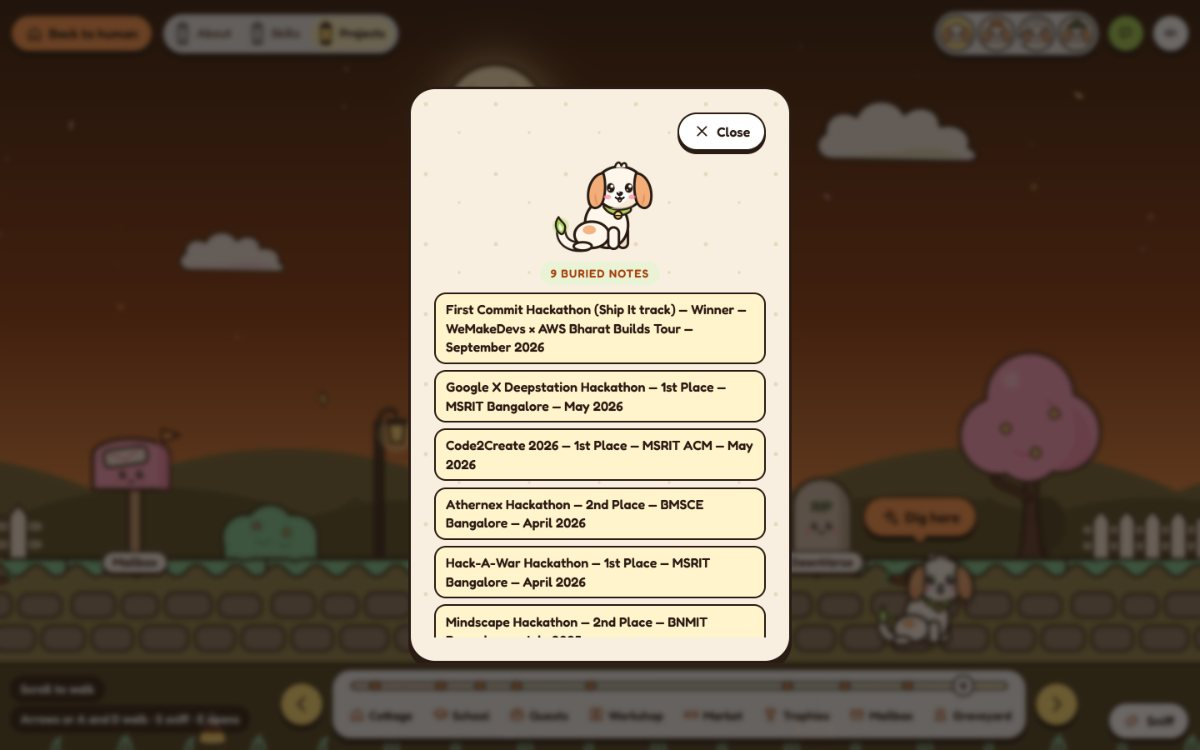
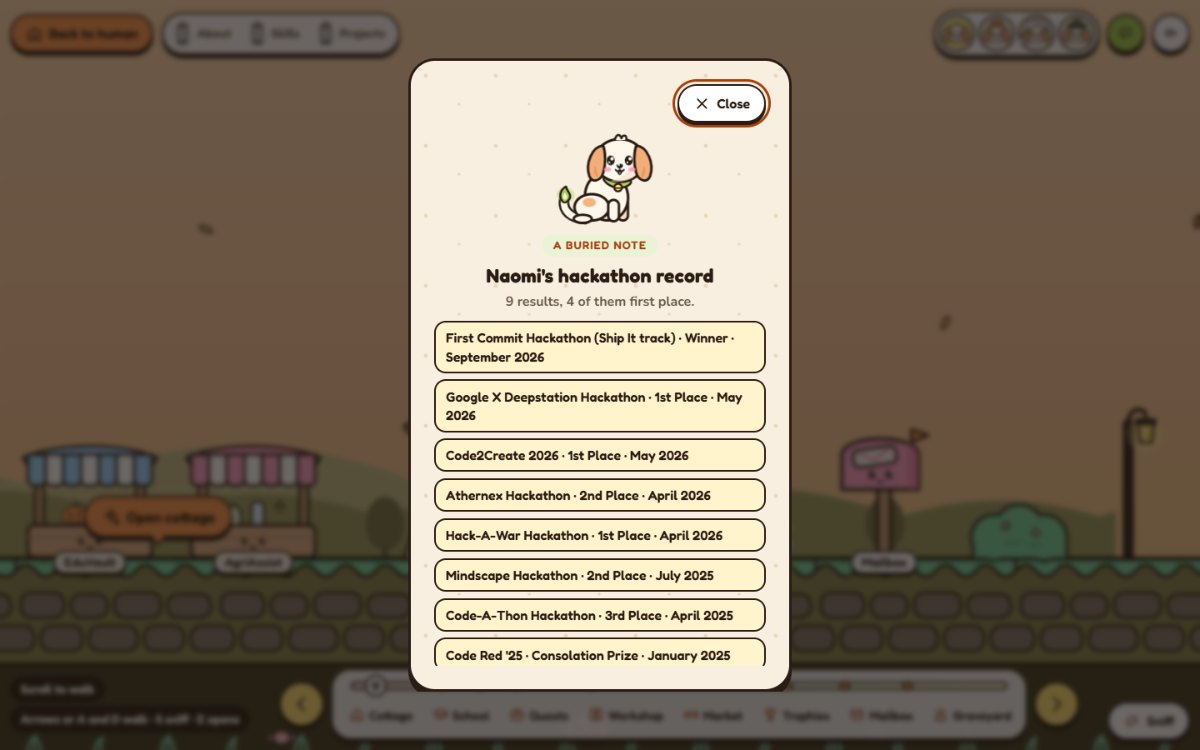
Turn the village dig spots into four notes from the portfolio.
Each spot opens a short note, school, the current internship, the hackathon record, or what Naomi builds, instead of a single buried fact.

diff --git a/src/human/HumanPage.tsx b/src/human/HumanPage.tsx
@@ -44,7 +44,7 @@ import { ROLES, type RoleId } from '../agent/match.ts';
  * hydrated: src/main.ts adds the interactions. Dog mode moves these
  * sections into a dialog in the real DOM, so keep the ids and classes
  * that src/dog reads (#education, #experience, #skills, #projects, #achievements, #contact,
- * #graveyard, .project-card[data-short], .grave-card, [data-bone]).
+ * #graveyard, .project-card[data-short], .grave-card).
  */
 
 const TINTS = ['pink', 'peach', 'lilac', 'sky', 'mint', 'butter'] as const;
@@ -349,7 +349,7 @@ export function HumanPage(): ReactNode {
               <p className="about-bio">
                 {beforeLove}
                 {love ? (
-                  <span id="fact-bio" data-bone={bioLove}>
+                  <span id="fact-bio">
                     {bioLove}
                   </span>
                 ) : null}
@@ -360,14 +360,14 @@ export function HumanPage(): ReactNode {
               </button>
             </article>
             <ul className="facts" aria-label="Quick facts">
-              <li className="fact tint-pink" id="fact-bengaluru" data-bone={location}>
+              <li className="fact tint-pink" id="fact-bengaluru">
                 <Icon name="pin" />
                 <span>
                   <span className="fact-label">Based in</span>
                   <span className="fact-value">{location}</span>
                 </span>
               </li>
-              <li className="fact tint-lilac" id="fact-focus" data-bone={`Focus: ${focus}`}>
+              <li className="fact tint-lilac" id="fact-focus">
                 <Icon name="spark" />
                 <span>
                   <span className="fact-label">Focus</span>
@@ -438,7 +438,7 @@ export function HumanPage(): ReactNode {
                   <Icon name="spark" />
                   {education.dates}
                 </li>
-                <li id="fact-cgpa" className="edu-cgpa" data-bone={education.score}>
+                <li id="fact-cgpa" className="edu-cgpa">
                   {education.score}
                 </li>
               </ul>
@@ -588,7 +588,7 @@ export function HumanPage(): ReactNode {
           />
           <ol className="award-grid">
             {awards.map((award, index) => (
-              <li id={`ach-${index}`} className={`award rank-${award.rank}`} data-bone={award.text} key={award.text}>
+              <li id={`ach-${index}`} className={`award rank-${award.rank}`} key={award.text}>
                 <Medal rank={award.rank} />
                 <p className="award-place">{award.place}</p>
                 <h3 className="award-event">{award.event}</h3>

diff --git a/src/dog/scene.ts b/src/dog/scene.ts
@@ -1,6 +1,8 @@
 import { cloud, moon, pumpkin, wrappedCandy, candyCorn } from '../art/critters.ts';
 import { academy } from '../art/decor.ts';
 import { sparkle } from '../art/kit.ts';
+import { portfolio } from '../content/portfolio.ts';
+import { buriedNotes, type BuriedNote } from './notes.ts';
 import {
   bush,
   cottage,
@@ -30,6 +32,8 @@ export type Target = {
   x: number;
   width: number;
   element: HTMLElement;
+  /** Dig spots only: what the pup digs up. */
+  note?: BuriedNote;
 };
 
 /** A stop on the village map. */
@@ -192,14 +196,8 @@ export function buildWorld(stage: HTMLElement): {
   const trails = el('div', 'trails');
   trails.hidden = true;
   village.append(trails);
-  // One dig spot per buried fact, except the hackathon awards: they share a
-  // single spot that digs up the whole list at once.
-  const awardList = document.querySelector<HTMLElement>('.award-grid');
-  const spots: HTMLElement[] = [];
-  for (const bone of document.querySelectorAll<HTMLElement>('[data-bone]')) {
-    const spot = awardList?.contains(bone) ? awardList : bone;
-    if (!spots.includes(spot)) spots.push(spot);
-  }
+  // A few dig spots, each holding a proper note (see notes.ts).
+  const spots = buriedNotes(portfolio);
   const SPOT_W = 96;
   // Spots sit in the grass strip, so keep them out from under building labels.
   const clearOfLabels = (start: number): number => {
@@ -211,7 +209,7 @@ export function buildWorld(stage: HTMLElement): {
     }
     return Math.min(x, WORLD_WIDTH - SPOT_W - 20);
   };
-  spots.forEach((spot, index) => {
+  spots.forEach((note, index) => {
     const x = clearOfLabels(Math.round(640 + index * ((4700 - 640) / Math.max(1, spots.length - 1))));
     const button = el('button', 'mound');
     button.type = 'button';
@@ -220,9 +218,9 @@ export function buildWorld(stage: HTMLElement): {
     button.innerHTML = `<span class="place-art" aria-hidden="true">${mound()}</span><span class="mound-label">Dig</span>`;
     button.setAttribute('aria-label', 'Dig this spot');
     village.append(button);
-    mounds.push({ kind: 'dig', id: spot.id || 'dig-awards', label: 'Dig here', x, width: SPOT_W, element: spot });
+    mounds.push({ kind: 'dig', id: note.id, label: 'Dig here', x, width: SPOT_W, element: button, note });
     button.addEventListener('click', () => {
-      button.dispatchEvent(new CustomEvent('dig', { bubbles: true, detail: spot }));
+      button.dispatchEvent(new CustomEvent('dig', { bubbles: true, detail: note }));
     });
   });
 

diff --git a/src/dog/index.ts b/src/dog/index.ts
@@ -6,6 +6,7 @@ import { pupArt, pupHead } from '../art/pup.ts';
 import { porch } from '../art/village.ts';
 import { VillageAudio } from './audio.ts';
 import { createDog, type Costume, type Pose } from './dog.ts';
+import type { BuriedNote } from './notes.ts';
 import { WORLD_WIDTH, buildWorld, updateTrails, type Place, type Target } from './scene.ts';
 
 const OPENING_KEY = 'naomi-spirit-opening-seen';
@@ -215,26 +216,22 @@ function openNode(node: HTMLElement): void {
   }
 }
 
-/** Shows what was buried: one note, or (for the awards spot) the whole list. */
-function dig(spot: HTMLElement): void {
-  const notes = spot.dataset.bone
-    ? [spot.dataset.bone]
-    : [...spot.querySelectorAll<HTMLElement>('[data-bone]')].map((node) => node.dataset.bone ?? '');
-  const found = notes.map((note) => note.trim()).filter(Boolean);
-  digKicker.textContent = found.length > 1 ? `${found.length} buried notes` : 'A buried note';
-  if (found.length > 1) {
-    const list = el('ul', 'dig-list');
-    for (const note of found) list.append(el('li', undefined, note));
-    digBody.replaceChildren(list);
-  } else {
-    digBody.textContent = found[0] ?? spot.innerText.trim();
-  }
+/** Shows the note the pup dug up: a heading, an optional intro line, and its list. */
+function dig(note: BuriedNote): void {
+  digKicker.textContent = 'A buried note';
+  const parts: HTMLElement[] = [el('h3', 'dig-title', note.title)];
+  if (note.intro) parts.push(el('p', 'dig-intro', note.intro));
+  const list = el('ul', 'dig-list');
+  for (const line of note.lines) list.append(el('li', undefined, line));
+  parts.push(list);
+  digBody.replaceChildren(...parts);
   if (!digDialog.open) digDialog.showModal();
 }
 
 function activate(target: Target): void {
-  if (target.kind === 'dig') dig(target.element);
-  else openNode(target.element);
+  if (target.kind === 'dig') {
+    if (target.note) dig(target.note);
+  } else openNode(target.element);
 }
 
 function playGust(): Promise<void> {
@@ -585,8 +582,8 @@ function mount(): void {
     if (target) scrollToTarget(target);
   });
   stage.addEventListener('dig', (event) => {
-    const bone = (event as CustomEvent<HTMLElement>).detail;
-    if (bone) dig(bone);
+    const note = (event as CustomEvent<BuriedNote>).detail;
+    if (note) dig(note);
   });
 
   scroller.addEventListener(

diff --git a/src/dog/notes.ts b/src/dog/notes.ts
@@ -1,0 +1,60 @@
+import { parseAward } from '../content/derive.ts';
+import type { Portfolio } from '../content/portfolio.ts';
+
+/** One dig spot in the village: a short note built only from portfolio.ts. */
+export type BuriedNote = {
+  id: string;
+  title: string;
+  intro?: string;
+  lines: string[];
+};
+
+const capitalise = (text: string) => text.charAt(0).toUpperCase() + text.slice(1);
+
+/**
+ * The notes the pup can dig up. Each one gathers a few related facts so a dig
+ * is worth the walk, rather than turning up a single word.
+ */
+export function buriedNotes(data: Portfolio): BuriedNote[] {
+  const notes: BuriedNote[] = [];
+  const first = data.name.split(' ')[0];
+
+  const edu = data.education;
+  notes.push({
+    id: 'note-school',
+    title: `${first}'s school report`,
+    lines: [`${edu.school}, ${edu.location}`, edu.degree, edu.dates, edu.score],
+  });
+
+  const now = data.jobs[0];
+  if (now) {
+    notes.push({
+      id: 'note-now',
+      title: `Where ${first} works now`,
+      intro: `${now.role} at ${now.org}, ${now.dates.replace(/\s*–\s*Present$/i, ' onwards')}.`,
+      lines: now.points,
+    });
+  }
+
+  const awards = data.achievements.map(parseAward);
+  if (awards.length) {
+    const firsts = awards.filter((award) => award.rank === 'first').length;
+    notes.push({
+      id: 'note-wins',
+      title: `${first}'s hackathon record`,
+      intro: `${awards.length} results, ${firsts} of them first place.`,
+      lines: awards.map((award) => [award.event, award.place, award.date].filter(Boolean).join(' · ')),
+    });
+  }
+
+  const focus = data.skills.find((group) => /focus/i.test(group.title));
+  if (focus) {
+    notes.push({
+      id: 'note-focus',
+      title: `What ${first} builds`,
+      lines: focus.skills.map(capitalise),
+    });
+  }
+
+  return notes;
+}

diff --git a/src/styles/dog.css b/src/styles/dog.css
@@ -1009,10 +1009,27 @@ body.is-dog .toasts {
 }
 
 .dig-body {
+  display: grid;
+  gap: 0.5rem;
+  width: 100%;
   font-family: var(--font-display);
   font-weight: 600;
   font-size: 1.25rem;
   line-height: 1.4;
+}
+
+.dig-title {
+  margin: 0;
+  font-size: 1.45rem;
+  font-weight: 700;
+}
+
+.dig-intro {
+  margin: 0 0 0.2rem;
+  font-family: var(--font-body);
+  font-size: 1rem;
+  font-weight: 700;
+  color: #6b5848;
 }
 
 .dig-list {

diff --git a/ARTICLE.md b/ARTICLE.md
@@ -1,4 +1,4 @@
-# A Lost Spirit Pup, a Haunted Village, and My Portfolio on AWS
+# My Portfolio Has a Dog, and the Dog Knows My Résumé
 
 **In one sentence:** the creative feature is a spirit pup you can *ask* about my work, send to *fetch* a résumé for your job post, or *become* and walk through my portfolio as a village. The AWS piece is the guestbook, where anonymous visitors write to DynamoDB through Cognito guest credentials and AppSync, on AWS Amplify.
 
@@ -56,7 +56,7 @@ This is the part I spent the most time on. **Become the dog** turns the page int
 | The mailbox | Contact |
 | The graveyard | Projects I set down |
 
-The sky follows your local time, so you might arrive at golden hour or under a full moon. Press **S** to sniff and see glowing scent trails, dig up buried notes with facts about me (one spot holds every hackathon win), and try on a pumpkin, ghost or witch-hat costume. Stand still and the pup sits, then falls asleep. Opening the cottage, the workshop and the market lights three memory lanterns, and a short ending plays.
+The sky follows your local time, so you might arrive at golden hour or under a full moon. Press **S** to sniff and see glowing scent trails, dig up four buried notes (my school report, my current internship, my hackathon record and what I build), and try on a pumpkin, ghost or witch-hat costume. Stand still and the pup sits, then falls asleep. Opening the cottage, the workshop and the market lights three memory lanterns, and a short ending plays.
 
 ![Dog mode: the pup walking past the cottage, the school, the quest board and the spell workshop, with the mini-map at the bottom](https://raw.githubusercontent.com/paccmann218/portfolio/master/docs/screenshots/dog-village.jpg)
 
@@ -213,7 +213,7 @@ The agent, Fetch and the village all run in the browser, so a judge asking the p
 
 ## Things that didn't work the first time
 
-**The dig spots looked wrong.** My first version was a row of about twelve brown domes with dark speckles, right on the path, and they looked like exactly what a real dog leaves behind. I redrew them as flat patches of turned soil with a bone and a sparkle, moved them onto the grass, and merged all the hackathon wins into one spot. The lesson: check your art at the size and in the place people will actually see it.
+**The dig spots looked wrong.** My first version was a row of about twelve brown domes with dark speckles, right on the path, and they looked like exactly what a real dog leaves behind. I redrew them as flat patches of turned soil with a bone and a sparkle, moved them onto the grass, and cut them down to four spots that each hold a proper note instead of a single fact. The lesson: check your art at the size and in the place people will actually see it.
 
 **The purple colour scheme looked generic.** The first version was lavender and purple everywhere, like a generated landing page. I re-coloured the whole site (CSS, every SVG illustration, the favicon) into midnight brown-black, pumpkin orange, bone white and witch-hat green.
 

diff --git a/README.md b/README.md
@@ -64,11 +64,11 @@ Built for the **AWS Student Builder Challenge**. Underneath, it's a normal, read
     <td align="center"><sub>Sniff (S) for scent trails, then dig where the bone is.</sub></td>
   </tr>
   <tr>
-    <td width="50%"><img src="docs/screenshots/dog-buried-notes.jpg" alt="A dig result listing every hackathon result as buried notes"></td>
+    <td width="50%"><img src="docs/screenshots/dog-buried-notes.jpg" alt="A dug-up note: Naomi's hackathon record, 9 results, 4 of them first place"></td>
     <td width="50%"><img src="docs/screenshots/dog-lanterns.jpg" alt="The ending dialog titled The lanterns are lit"></td>
   </tr>
   <tr>
-    <td align="center"><sub>One dig spot holds every hackathon win.</sub></td>
+    <td align="center"><sub>Four dig spots: school report, current internship, hackathon record, focus areas.</sub></td>
     <td align="center"><sub>Light the cottage, workshop and market lanterns for the ending.</sub></td>
   </tr>
 </table>
@@ -275,7 +275,7 @@ The live site is an Amplify Hosting app that is not connected to Git. Each relea
 
 - Scroll, A and D, or the arrow keys to walk. On a phone, swipe sideways or hold the ◀ ▶ buttons next to the map.
 - Walk up to a building and press the bubble over the pup, or E, to open it. The mini-map jumps to any building.
-- S, or the Sniff button, shows scent trails. Stand on a dig spot and press E to dig.
+- S, or the Sniff button, shows scent trails. Stand on one of the four dig spots and press E to dig up its note.
 - Costumes: pumpkin, bedsheet ghost, witch hat.
 - Stop walking and the pup sits, then curls up and falls asleep.
 - Asking the pup to "take me to the projects" walks it to the market.
